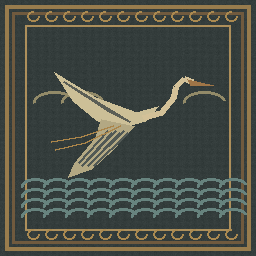
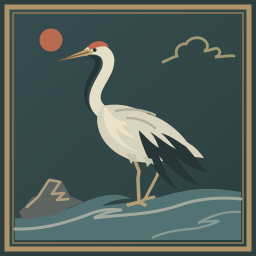
feat(服饰插画): 重绘尸影额符与白鹤补子
改动：
- 用粗细起落的朱笔替换硬折线，用临水立鹤替换三角鸟形与重复鱼鳞；移除额纸和补子图上的随机砂纹。
- 两份矢量源单独烘焙为原尺寸 RGB，沿用两套尸影的材质与布局。

验证：
- 两次烘焙 160×320 额符与 256×256 鹤补，输出哈希一致。
- Godot 4.7.2 Windows Forward+，旧包与源码在尸潮第 5.5 秒取相同角色、机位及画面，两处图案变化可见，对照区域背景像素一致。

未验收范围：
- 其他硬件及玩家主观验收未执行。引擎退出时仍有现存的资源清理提示。

diff --git a/tools/pipeline/finish_costumes.py b/tools/pipeline/finish_costumes.py
@@ -1,5 +1,7 @@
 """Derive garment maps from the authored 413games costume UVs and Quaternius skin atlas."""
 from pathlib import Path
+import shutil
+import subprocess
 import numpy as np
 from PIL import Image, ImageDraw, ImageEnhance, ImageOps
 
@@ -88,39 +90,14 @@ def moon_hat():
 
 
 def printed_panels():
-    def surface(sz,base):
-     rng=np.random.default_rng(829); y,x=np.mgrid[:sz[1],:sz[0]]
-     grain=rng.normal(0,2.1,(sz[1],sz[0]))+1.5*np.sin(x*.8)+1.2*np.sin(y*.94)
-     return Image.fromarray(np.uint8(np.clip(np.array(base)[None,None,:]+grain[:,:,None],0,255)))
-    im=surface((160,320),(195,155,91));d=ImageDraw.Draw(im)
-    ink=(133,49,33)
-    for path in [[(31,48),(51,22),(64,41),(77,15)],[(73,46),(90,18),(109,39),(123,25)],
-     [(80,30),(77,93),(95,78),(96,50)],[(38,91),(61,78),(81,90),(114,69)],[(68,92),(86,128),(59,141),(42,111)],
-     [(87,99),(98,128),(115,111)],[(50,153),(89,141),(113,151),(96,170),(59,170),(46,185)],
-     [(82,126),(76,177),(98,209),(63,238),(61,207)],[(50,195),(100,172)],[(43,215),(104,190)],[(64,240),(84,266),(111,241)]]:
-     d.line(path,fill=ink,width=5,joint='curve')
-    d.rectangle((54,273,103,304),outline=ink,width=3)
-    d.line([(63,278),(63,299),(92,299),(92,280),(77,280),(77,294)],fill=ink,width=3)
-    im.save(OUT/'ward_paper.png')
-    im=surface((256,256),(52,61,60));d=ImageDraw.Draw(im)
-    for inset,col,w in [(5,(152,124,77),4),(12,(112,90,62),3),(25,(173,143,91),2)]:
-     d.rectangle((inset,inset,255-inset,255-inset),outline=col,width=w)
-    for a in range(30,235,18):
-     for y in [15,233]:d.arc((a-3,y-4,a+9,y+6),0,273,fill=(170,137,80),width=2)
-    for x in [33,61,183]:
-     d.arc((x,84+(x%2)*7,x+42,106+(x%2)*7),175,350,fill=(146,138,104),width=3)
-    for yy in [185,195,205,215]:
-     for x in range(21,225,22):d.arc((x,yy-7,x+28,yy+9),170,345,fill=(103,131,126),width=3)
-    # Heron in flight, long neck, bent wing and trailing legs.
-    d.polygon([(54,72),(95,97),(136,112),(158,106),(145,121),(117,129),(96,120),(73,101)],fill=(204,191,151))
-    d.polygon([(101,119),(95,138),(74,163),(68,177),(91,169),(112,150),(134,126)],fill=(179,168,131))
-    for k in range(6):
-     d.line([(63+k*5,81+k*3),(109+k*4,111+k*2)],fill=(91,94,86),width=2)
-     d.line([(79+k*3,162+k%2*3),(108+k*4,130+k%2*2)],fill=(82,89,85),width=2)
-    d.line([(143,117),(161,112),(174,96),(176,86),(184,78),(192,81)],fill=(211,193,152),width=6)
-    d.polygon([(187,79),(213,85),(190,85)],fill=(159,117,71))
-    d.line([(113,126),(81,137),(51,142)],fill=(171,133,74),width=2);d.line([(120,126),(85,143),(55,150)],fill=(171,133,74),width=2)
-    im.save(OUT/'rank_badge.png')
+    """Bake the two paintings through the same SVG rasterizer used by the game."""
+    bundled = ROOT / 'tools/godot/Godot_v4.7.2-stable_win64_console.exe'
+    godot = bundled if bundled.is_file() else shutil.which('godot4') or shutil.which('godot')
+    if not godot:
+        raise RuntimeError('Godot 4 is required to bake costume panels')
+    subprocess.run([str(godot), '--headless', '--path', str(ROOT),
+                    '--script', 'res://tools/pipeline/bake_costume_panels.gd'], check=True)
+
 
 if __name__=='__main__':
     for kind in ['base','moon']:coat_atlas(kind)

diff --git a/docs/03-art-assets.md b/docs/03-art-assets.md
@@ -209,3 +209,7 @@ python -I tools/pipeline/synth_night_music.py build/night-music-qa --asset-path 
 身份、难度、誓约、心法、生死簿和结局共用江岸册页。渡棚和系舟落在左下，松石留在右侧，中央的水面与留白承接正文。底图由本项目使用图像生成工具制作，运行时按窗口等比裁切。[江岸册页](../assets/ui/ferry-album.png)
 
 宅院的劫余录、求签、存货、夜战、设置各有一枚器物图章。五格矢量源按比例缩放，日月表盘的十二时辰、指针和尸潮预警随游戏时间绘制。[图章源稿](../assets/ui/hud-seals.svg) · [时辰盘](../scripts/ui/widgets/clock_dial.gd)
+
+## 十一、尸影衣上的符与补子
+
+额符的朱笔和胸前的鹤补各有独立矢量原稿，输出为 160×320 和 256×256 的纹样。两套尸影模型共用这两张图。只更新符和补子时，可在项目根目录用 Godot 运行 `--headless --path . --script res://tools/pipeline/bake_costume_panels.gd`。[矢量原稿](../tools/pipeline/costume_panels/) · [烘焙脚本](../tools/pipeline/bake_costume_panels.gd)
